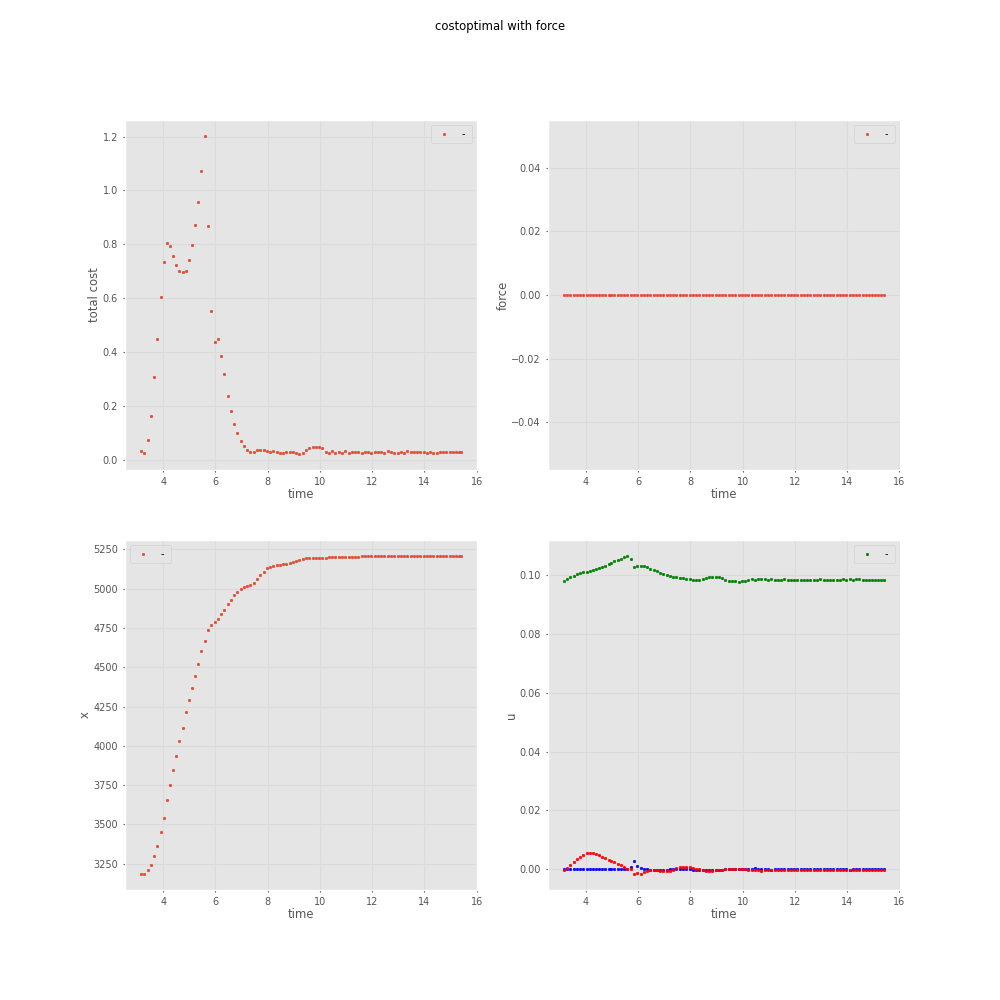
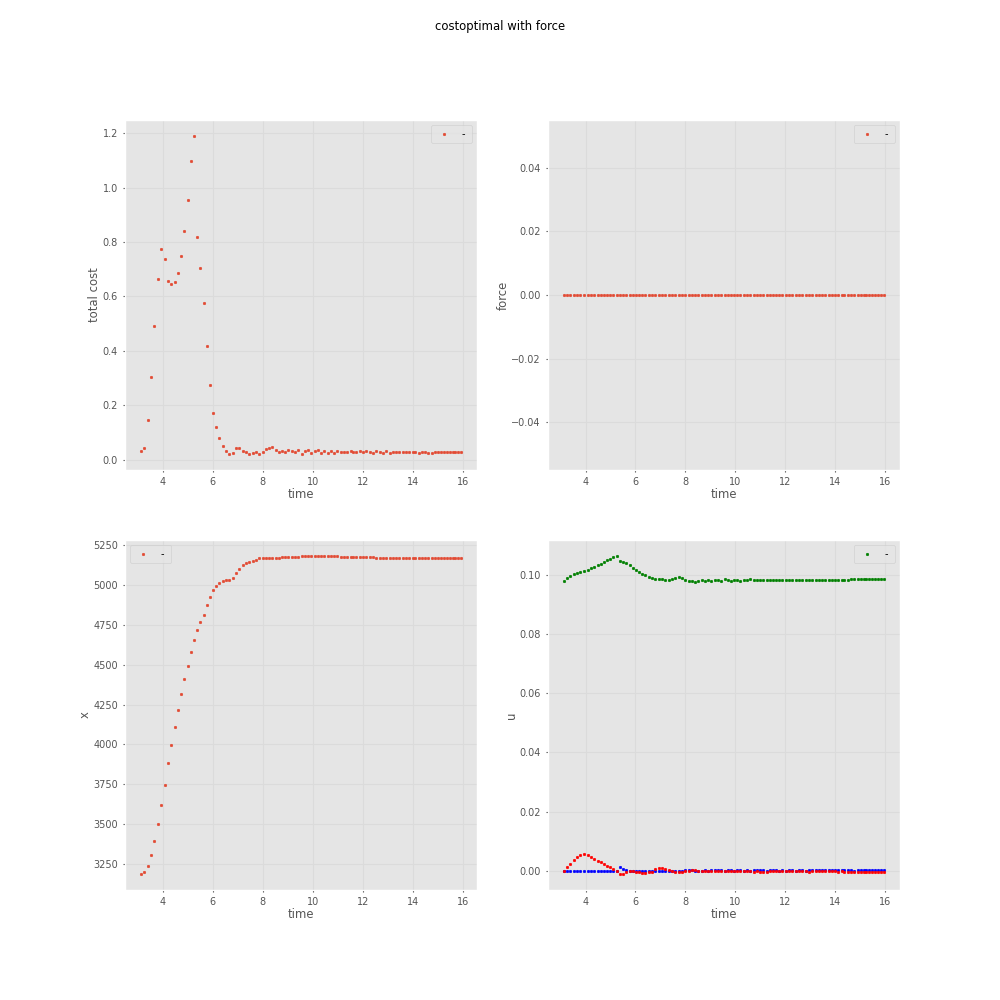
fix the controller time

diff --git a/run_controller.py b/run_controller.py
@@ -13,8 +13,8 @@ def generate_save_plt(x, y_array, y_labels, time1, time2, title, legend, additio
     # Plot each set of data in the corresponding subplot
 
     for y, ax, lb in zip(y_array, plts, y_labels):
-        print(y)
-        if y.ndim == 2:
+        # print(y)
+        if y.ndim != 1:
             for i in range(y.shape[1]):
                 ax.scatter(x, y[:, i], color=colors[i % len(colors)], s=3)
         else:
@@ -103,11 +103,49 @@ if __name__ == '__main__':
     generate_save_plt(time_sim, [joint_curr_pos,joint_curr_vel,joint_curr_torque,joint_curr_acc], 
                       ["pos", "vel", "force", "acc"], 
                       time_sim[0], time_sim[-1], " joint space"+ controller,["1","2","3","4","5","7"], None)
-    generate_save_plt(time_sim, [opt_cost,force_cost,x_cost,opt_u], 
-                      ["total cost", "force", "x", "u"], 
-                      time_sim[0], time_sim[-1], "cost"+ controller,["- "], None)
+    # generate_save_plt(time_sim, [force_er,x_er], 
+    #                   ["total cost", "force", "x", "u"], 
+    #                   time_sim[0], time_sim[-1], "cost"+ controller,["- "], None)
 
+    print(time_sim.shape, opt_error_f[0], opt_error_x.shape, opt_f.shape, opt_x.shape)
+    print(time_sim.shape, ee_curr_pos.shape, ee_curr_vel.shape, ee_curr_force.shape, ee_curr_acc.shape)
 
     generate_save_plt(time_sim, [opt_error_f, opt_error_x, opt_f, opt_x], 
                     ["force_er", "x_er", "f", "x"], 
                     time_sim[0], time_sim[-1], "f, x values and error"+ controller,["- "], [opt_f_ref, opt_x_ref])
+
+
+    # Store variables in a dictionary
+    variables_dict = {
+        'actuator_torque': actuator_torque,
+        'wrench_jac': wrench_jac,
+        'time_sim': time_sim,
+        'rtb_torque': rtb_torque,
+        'joint_curr_pos': joint_curr_pos,
+        'joint_curr_vel': joint_curr_vel,
+        'joint_curr_acc': joint_curr_acc,
+        'joint_curr_torque': joint_curr_torque,
+        'joint_des_pos': joint_des_pos,
+        'joint_des_vel': joint_des_vel,
+        'joint_des_torque': joint_des_torque,
+        'ee_curr_pos': ee_curr_pos,
+        'ee_curr_vel': ee_curr_vel,
+        'ee_curr_acc': ee_curr_acc,
+        'ee_curr_force': ee_curr_force,
+        'ee_des_pos': ee_des_pos,
+        'ee_des_vel': ee_des_vel,
+        'sensor_wrench': sensor_wrench,
+        'opt_u': opt_u,
+        'opt_cost': opt_cost,
+        'force_cost': force_cost,
+        'x_cost': x_cost,
+        'opt_x_ref': opt_x_ref,
+        'opt_f_ref': opt_f_ref,
+        'opt_error_f': opt_error_f,
+        'opt_error_x': opt_error_x,
+        'opt_x': opt_x,
+        'opt_f': opt_f
+    }
+
+    # Save the dictionary to a .npz file
+    np.savez('variables.npz', **variables_dict)

diff --git a/mpc_controller.py b/mpc_controller.py
@@ -59,7 +59,7 @@ class MPC:
         # print("wrench", wrench)
         for t in range(self.T_opt):
             cost += cp.quad_form(x[:, t + 1] -x_ref, self.P) + cp.quad_form(f[:, t + 1] -f_ref, self.F) + cp.quad_form(u[:, t] , self.G) + cp.quad_form(u[:, t] -self.prev_u, self.H)
-            constr += [x[:, t + 1] == np.dot(self.Ax, x0 )+ self.Bx @ (u[:, t])]
+            constr += [x[:, t + 1] == self.Ax @ x0 + self.Bx @ (u[:, t])]
             constr += [f[:, t + 1] == self.Bf @ (u[:, t]- v0)]
             constr += [u[:,t] <= np.ones(3)*(3)]
             constr += [u[:,t] >= np.ones(3)*(-3)]
@@ -67,16 +67,20 @@ class MPC:
         # print(x0)
         # print(target_pos)
         problem.solve()
+        x_k_1  = np.dot(self.Ax, x0 )+np.dot( self.Bx,(u[:, 0].value))
+        f_k_1 = np.dot(self.Bf, (u[:, 0].value- v0))
+        x_er = x_k_1 - x_ref
+        f_er = f_k_1 - f_ref
         self.opt_u.append(u[:,0].value)
         self.opt_cost.append(problem.value)
-        self.force_cost.append(np.matmul((f[:, 0].value -f_ref).T,np.matmul(self.F, f[:, 0].value -f_ref)))
-        self.x_cost.append(np.matmul((x[:, 0].value -x_ref).T,np.matmul(self.P, x[:, 0].value -x_ref)))
+        self.force_cost.append(np.matmul((f_er).T,np.matmul(self.F, f_er)))
+        self.x_cost.append(np.matmul((x_er).T,np.matmul(self.P, x_er)))
         self.opt_x_ref.append(x_ref)
         self.opt_f_ref.append(f_ref)
-        self.opt_error_f.append(f[:, 0].value -f_ref)
-        self.opt_error_x.append(x[:, 0].value -x_ref)
-        self.opt_x.append(x[:,0].value)
-        self.opt_f.append(f[:,0].value)
+        self.opt_error_f.append(f_er)
+        self.opt_error_x.append(x_er)
+        self.opt_x.append(x_k_1)
+        self.opt_f.append(f_k_1)
         self.prev_u = u[:,0].value 
         return u[:,0].value 
 
